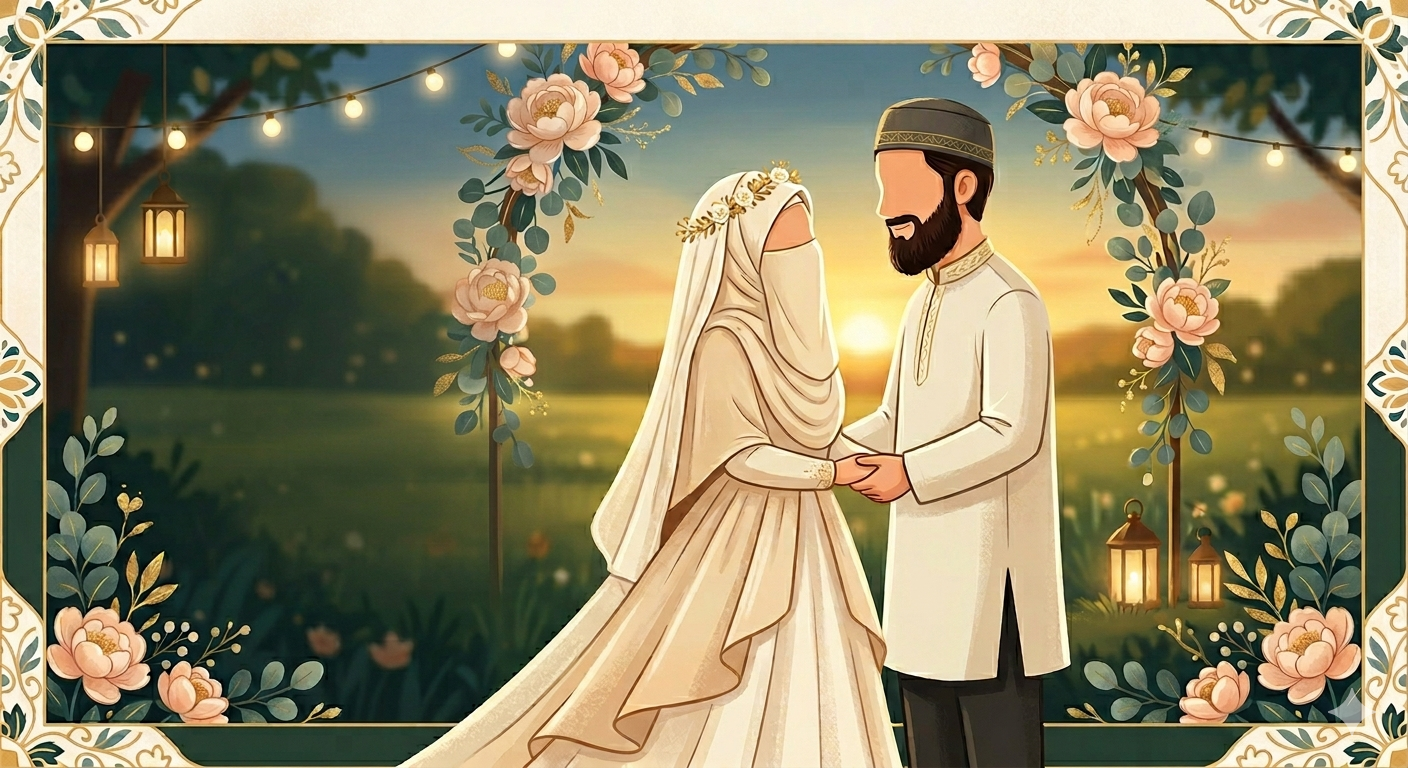
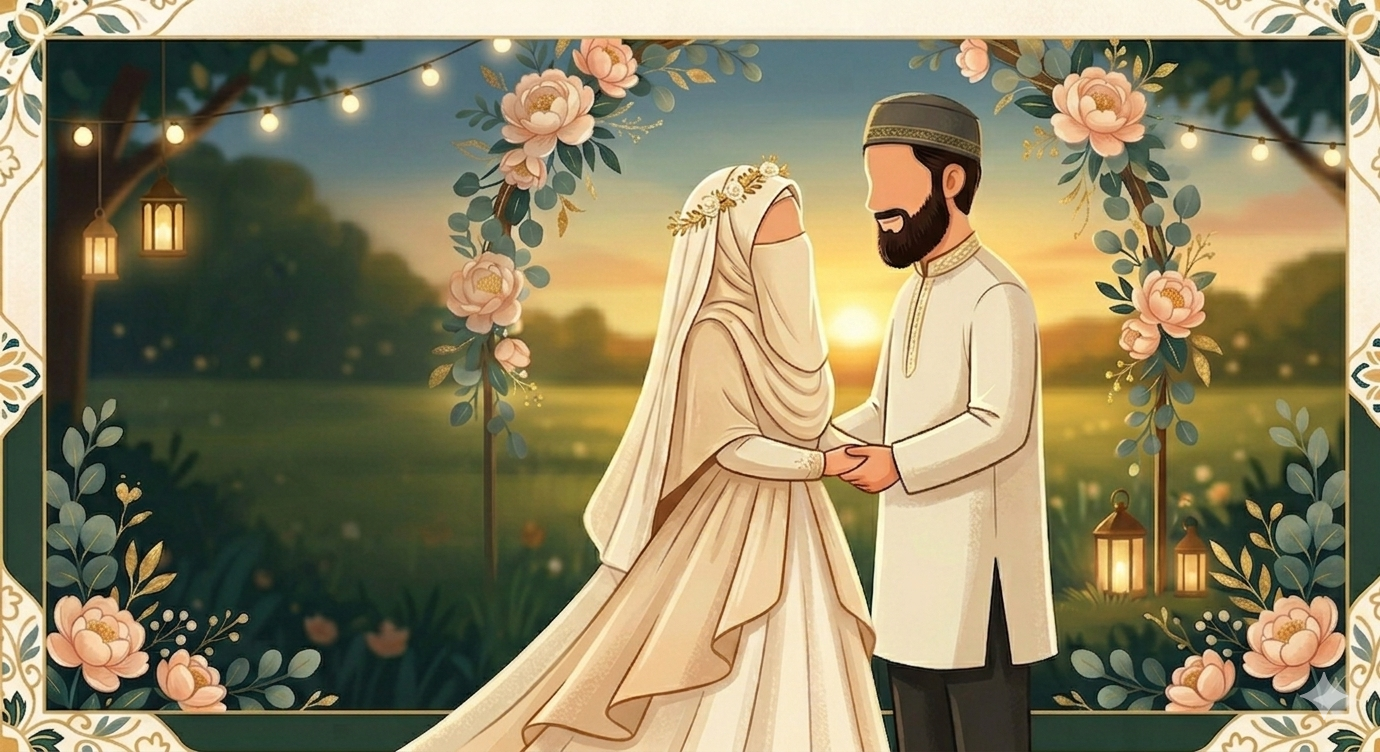
wedding:tombol buka undangan

Changed region(s): [[0.0, 0.0, 1.0, 1.0], [0.0312, 0.2447, 0.1558, 0.367], [0.2493, 0.3059, 0.2804, 0.3364]]

diff --git a/src/components/WeddingInvitation.vue b/src/components/WeddingInvitation.vue
@@ -1,25 +1,62 @@
 <template>
   <div class="min-h-screen bg-stone-50 font-serif text-darkNavy selection:bg-gold selection:text-white">
     <!-- Header Section -->
-    <header class="relative h-screen flex items-center justify-center text-center bg-stone-200 overflow-hidden">
-      <div class="absolute inset-0 z-0 opacity-60">
-        <!-- Placeholder Foto Pengantin -->
-        <img :src="weddingHero" alt="Wedding Header" class="w-full h-full object-cover" />
-    </div>
-      <div class="relative z-10 p-6 bg-black/10 backdrop-blur-sm rounded-lg border border-gold/30 mx-4">
-        <p class="text-black/90 text-7x1 md:text-2xl uppercase tracking-widest mb-4">The Wedding of</p>
-        <h1 class="text-5xl md:text-7xl font-light mb-2">Fulan & Fulanah</h1>
+    <header 
+      class="hero relative h-screen flex items-center justify-center text-center bg-stone-200 overflow-hidden"
+      :style="{ backgroundImage: `linear-gradient(rgba(0,0,0,0.5), rgba(0,0,0,0.5)), url(${weddingHero})` }"
+    >
+      <div class="relative z-10 p-6 backdrop-blur-[2px] rounded-lg border border-gold/30 mx-4 animate-fade-in">
+        <p class="text-white text-xl md:text-2xl uppercase tracking-widest mb-4">The Wedding of</p>
+        <h1 class="text-5xl md:text-7xl font-light mb-2 text-white">Fulan & Fulanah</h1>
         <div class="w-24 h-px bg-gold mx-auto my-6"></div>
-        <p class="text-xl md:text-2xl italic bold">20 Desember 2025</p>
+        <p class="text-xl md:text-2xl italic bold mb-8 text-white">20 Desember 2025</p>
+        
+        <!-- Tombol Buka Undangan -->
+        <button 
+          v-if="!isOpened"
+          @click="openInvitation"
+          class="bg-gold text-white px-8 py-3 rounded-full hover:bg-darkNavy transition-all duration-500 tracking-widest uppercase text-sm shadow-lg hover:scale-105"
+        >
+          Buka Undangan
+        </button>
       </div>
     </header>
 
+    <!-- Main Content (Hidden initially) -->
+    <div v-if="isOpened" class="animate-slide-up">
+    <!-- Family Section -->
+    <section ref="firstSection" class="reveal py-20 bg-stone-50">
+      <div class="max-w-4xl mx-auto px-6">
+        <div class="grid md:grid-cols-2 gap-12 text-center items-center">
+          <!-- Groom Info -->
+          <div class="flex flex-col items-center">
+            <div class="border-2 border-gold/30 rounded-full w-72 h-72 md:w-80 md:h-80 flex flex-col justify-center items-center p-8 bg-white shadow-inner mb-6">
+              <h3 class="text-4xl font-light text-gold italic mb-4">Fulan</h3>
+              <p class="text-gray-600 leading-relaxed text-sm md:text-base">
+                Putra dari <br />
+                <span class="font-bold text-darkNavy text-lg">Bapak Siswoyo & Ibu Siti Badriah</span>
+              </p>
+            </div>
+          </div>
+          <!-- Bride Info -->
+          <div class="flex flex-col items-center">
+            <div class="border-2 border-gold/30 rounded-full w-72 h-72 md:w-80 md:h-80 flex flex-col justify-center items-center p-8 bg-white shadow-inner mb-6">
+              <h3 class="text-4xl font-light text-gold italic mb-4">Fulanah</h3>
+              <p class="text-gray-600 leading-relaxed text-sm md:text-base">
+                Putri dari <br />
+                <span class="font-bold text-darkNavy text-lg">Bapak Anton & Ibu Suriawati</span>
+              </p>
+            </div>
+          </div>
+        </div>
+      </div>
+    </section>
     <!-- Countdown Section -->
-    <section class="py-20 bg-white text-center">
+    <section class="reveal py-20 bg-white text-center">
       <h2 class="text-3xl mb-10 text-gold font-light uppercase tracking-widest">Menuju Hari Bahagia</h2>
       <div class="flex justify-center gap-4 md:gap-10">
         <div v-for="(value, unit) in countdown" :key="unit" class="flex flex-col items-center">
-          <div class="text-3xl md:text-5xl font-bold text-darkNavy border-2 border-gold/20 w-20 h-20 md:w-28 md:h-28 flex items-center justify-center rounded-full mb-2">
+          <div class="text-3xl md:text-5xl font-bold text-darkNavy border-2 border-gold/20 w-20 h-20 md:w-28 md:h-28 flex items-center justify-center rounded-full mb-2 bg-stone-50">
             {{ value }}
           </div>
           <span class="text-xs md:text-sm uppercase tracking-widest text-gray-500">{{ unit }}</span>
@@ -28,7 +65,7 @@
     </section>
 
     <!-- Event Detail Section -->
-    <section class="py-20 bg-stone-50">
+    <section class="reveal py-20 bg-stone-50">
       <div class="max-w-4xl mx-auto px-6 grid md:grid-cols-2 gap-12">
         <!-- Akad Nikah -->
         <div class="p-8 bg-white border border-gold/20 shadow-sm text-center transform hover:-translate-y-1 transition duration-300">
@@ -56,7 +93,7 @@
     </section>
 
     <!-- Maps Section -->
-    <section class="py-20 bg-white">
+    <section class="reveal py-20 bg-white">
       <div class="max-w-5xl mx-auto px-6">
         <h2 class="text-3xl text-center mb-10 text-gold font-light uppercase tracking-widest">Lokasi Acara</h2>
         <div class="aspect-video w-full rounded-lg overflow-hidden border-4 border-gold/10 shadow-lg grayscale hover:grayscale-0 transition duration-700">
@@ -74,7 +111,7 @@
     </section>
 
     <!-- Guest Book Section -->
-    <section class="py-20 bg-stone-50 pb-32">
+    <section class="reveal py-20 bg-stone-50 pb-32">
       <div class="max-w-2xl mx-auto px-6">
         <h2 class="text-3xl text-center mb-10 text-gold font-light uppercase tracking-widest">Buku Tamu</h2>
         
@@ -96,12 +133,13 @@
         </div>
       </div>
     </section>
+    </div>
 
     <!-- Footer -->
     <footer class="bg-darkNavy py-8 text-center text-stone-400 text-sm tracking-[0.2em]">
       &copy; 2025 ZAHABA - Undangan Pernikahan Digital Elegan
     </footer>
-  </div>
+    </div>
 </template>
 
 <script setup>
@@ -110,6 +148,39 @@ import { ref, onMounted, onUnmounted } from 'vue'
 // Pastikan nama file dan ekstensinya (.png atau .jpg) sesuai dengan yang ada di folder src/assets
 // Jika file aslinya adalah .jpg, ganti akhiran di bawah menjadi .jpg
 import weddingHero from '../assets/Hero-wedding.png'
+
+const isOpened = ref(false)
+const firstSection = ref(null)
+
+// Fungsi untuk menginisialisasi ulang Scroll Reveal Observer
+const initRevealObserver = () => {
+  const observerOptions = {
+    threshold: 0.15
+  }
+
+  const revealObserver = new IntersectionObserver((entries) => {
+    entries.forEach(entry => {
+      if (entry.isIntersecting) {
+        entry.target.classList.add('reveal-active')
+      }
+    })
+  }, observerOptions)
+
+  // Cari semua elemen reveal dan amati
+  document.querySelectorAll('.reveal').forEach(el => revealObserver.observe(el))
+}
+
+const openInvitation = () => {
+  isOpened.value = true
+  
+  // Tunggu sejenak agar v-if selesai merender DOM
+  setTimeout(() => {
+    initRevealObserver() // Jalankan observer setelah elemen muncul di DOM
+    if (firstSection.value) {
+      firstSection.value.scrollIntoView({ behavior: 'smooth' })
+    }
+  }, 100)
+}
 
 
 // State untuk Countdown
@@ -159,6 +230,9 @@ const dummyComments = ref([
 ])
 
 onMounted(() => {
+  // Panggil saat mount (untuk elemen yang mungkin sudah ada)
+  initRevealObserver()
+
   updateCountdown()
   timerInterval = setInterval(updateCountdown, 1000)
 })
@@ -172,8 +246,17 @@ onUnmounted(() => {
 /* Import font serif yang elegan (Opsional jika sudah ada di project) */
 @import url('https://fonts.googleapis.com/css2?family=Playfair+Display:ital,wght@0,400;0,700;1,400&display=swap');
 
+
+
 .font-serif {
   font-family: 'Playfair Display', serif;
+}
+
+/* Hero Styling untuk memastikan gambar di tengah */
+.hero {
+  background-size: cover;
+  background-position: center center;
+  background-repeat: no-repeat;
 }
 
 /* Warna emas kustom sesuai permintaan */
@@ -187,5 +270,47 @@ onUnmounted(() => {
 
 .border-gold {
   border-color: #D4AF37;
+}
+
+/* Animations */
+.reveal {
+  opacity: 0;
+  transform: translateY(40px);
+  transition: all 1.2s cubic-bezier(0.5, 0, 0, 1);
+}
+
+.reveal-active {
+  opacity: 1;
+  transform: translateY(0);
+}
+
+.animate-fade-in {
+  animation: fadeIn 2s ease-out;
+}
+
+.animate-slide-up {
+  animation: slideUp 1.5s ease-out forwards;
+}
+
+@keyframes fadeIn {
+  from { 
+    opacity: 0; 
+    transform: scale(0.95);
+  }
+  to { 
+    opacity: 1; 
+    transform: scale(1);
+  }
+}
+
+@keyframes slideUp {
+  from {
+    opacity: 0;
+    transform: translateY(100px);
+  }
+  to {
+    opacity: 1;
+    transform: translateY(0);
+  }
 }
 </style>
